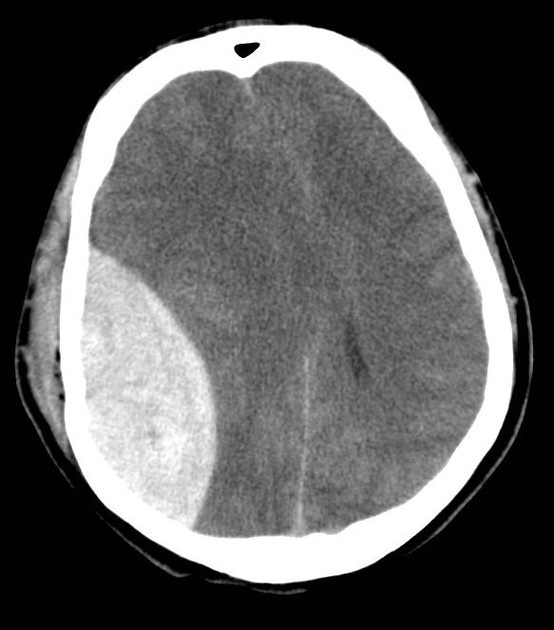
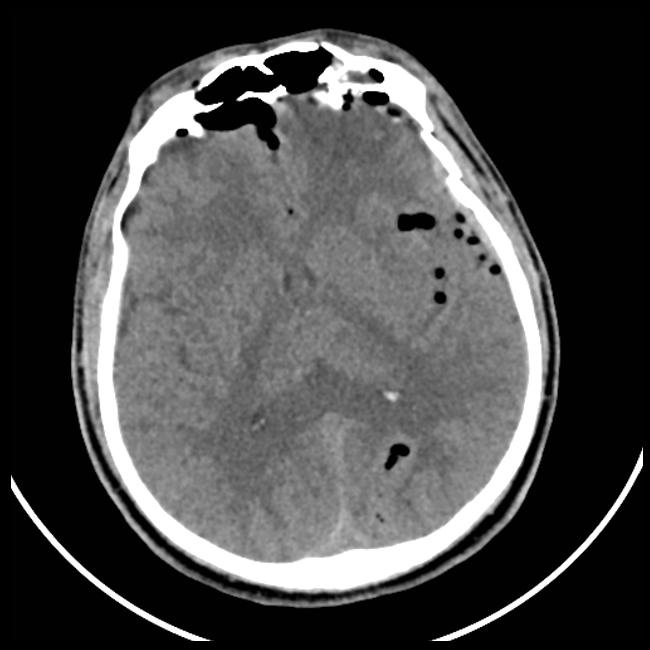
requirment added

diff --git a/app.py b/app.py
@@ -7,75 +7,102 @@ from torchvision import models, transforms
 from ultralytics import YOLO, SAM
 from PIL import Image
 
-st.set_page_config(page_title="NeuroScan AI", page_icon="🧠", layout="wide")
+st.set_page_config(page_title="CerebraAI", page_icon="🧠", layout="wide")
 
 # ============================================================
-# STYLING — compact, dark, tight spacing
+# STYLING — warm orange/amber gradient theme, dark base
 # ============================================================
 st.markdown("""
 <style>
-    .stApp { background-color: #0e1117; }
+    .stApp { background-color: #120b08; }
     .block-container { padding-top: 1.5rem; padding-bottom: 1.5rem; max-width: 1100px; }
+
     .main-header {
-        background: linear-gradient(135deg, #1e2749 0%, #0e1117 100%);
-        padding: 1.1rem 1.5rem; border-radius: 12px; margin-bottom: 1rem;
-        border: 1px solid #2a3352; display: flex; align-items: center; justify-content: space-between;
+        background: linear-gradient(135deg, #ff9d5c 0%, #d9531e 35%, #3a1c10 80%, #120b08 100%);
+        padding: 1.6rem 1.8rem; border-radius: 18px; margin-bottom: 1.2rem;
+        border: 1px solid #4a2a18; position: relative; overflow: hidden;
+    }
+    .main-header::before {
+        content: ""; position: absolute; top: -40%; right: -10%;
+        width: 60%; height: 180%;
+        background: radial-gradient(circle, rgba(255,180,120,0.35) 0%, rgba(255,180,120,0) 70%);
+        pointer-events: none;
     }
     .main-header h1 {
-        font-size: 1.5rem; font-weight: 700; margin: 0;
-        background: linear-gradient(90deg, #4f8cff, #6ee7d8);
-        -webkit-background-clip: text; -webkit-text-fill-color: transparent;
-        display: inline;
+        font-size: 2rem; font-weight: 800; margin: 0; color: #fff5ec;
+        letter-spacing: -0.02em; position: relative;
     }
-    .main-header p { color: #8b93b0; margin: 2px 0 0 0; font-size: 0.8rem; }
-    section[data-testid="stSidebar"] { background-color: #12172a; }
+    .main-header p { color: #ffe0c2; margin: 4px 0 12px 0; font-size: 0.88rem; position: relative; }
+    .tag-pill {
+        display: inline-block; padding: 5px 14px; border-radius: 20px;
+        font-size: 0.72rem; font-weight: 700; margin-right: 8px; position: relative;
+    }
+    .tag-dark { background: #1c1310; color: #ffcda0; border: 1px solid #4a2a18; }
+    .tag-orange { background: #e8631f; color: #fff5ec; }
+
+    section[data-testid="stSidebar"] { background-color: #17100c; border-right: 1px solid #3a2418; }
+    section[data-testid="stSidebar"] * { color: #f0dcc9 !important; }
+
     .info-card {
-        background: #161b2e; border: 1px solid #2a3352; border-radius: 10px;
+        background: #1c130e; border: 1px solid #3a2418; border-radius: 12px;
         padding: 0.7rem 0.9rem; margin-bottom: 0.6rem;
     }
     .detection-card {
-        background: #161b2e; border-radius: 10px; padding: 0.8rem 1rem;
+        background: linear-gradient(135deg, #1c130e 0%, #1c130e 60%, #2a1810 100%);
+        border-radius: 12px; padding: 0.85rem 1.05rem;
         margin-bottom: 0.6rem; border-left: 4px solid var(--accent-color);
     }
-    .detection-title { font-size: 0.98rem; font-weight: 700; color: #f0f2f8; margin-bottom: 0.1rem; }
-    .detection-meta { color: #8b93b0; font-size: 0.78rem; margin: 0.3rem 0 0.4rem 0; line-height: 1.3; }
-    .conf-row { display: flex; align-items: center; gap: 8px; font-size: 0.72rem; color: #8b93b0; margin-top: 3px; }
-    .conf-bar-bg { background: #2a3352; border-radius: 5px; height: 6px; flex: 1; }
-    .conf-bar-fill { height: 6px; border-radius: 5px; }
-    .stat-row { display: flex; gap: 0.6rem; margin-bottom: 0.8rem; }
+    .detection-title { font-size: 1rem; font-weight: 700; color: #fff5ec; margin-bottom: 0.15rem; }
+    .detection-meta { color: #c9a98c; font-size: 0.78rem; margin: 0.35rem 0 0.45rem 0; line-height: 1.35; }
+    .conf-row { display: flex; align-items: center; gap: 8px; font-size: 0.72rem; color: #c9a98c; margin-top: 4px; }
+    .conf-bar-bg { background: #3a2418; border-radius: 5px; height: 6px; flex: 1; }
+    .conf-bar-fill { height: 6px; border-radius: 5px; background: linear-gradient(90deg, #ff9d5c, #e8631f); }
+
+    .stat-row { display: flex; gap: 0.7rem; margin-bottom: 0.9rem; }
     .stat-box {
-        background: #161b2e; border: 1px solid #2a3352; border-radius: 10px;
-        padding: 0.6rem; text-align: center; flex: 1;
+        background: #1c130e; border: 1px solid #3a2418; border-radius: 12px;
+        padding: 0.7rem; text-align: center; flex: 1;
     }
-    .stat-number { font-size: 1.4rem; font-weight: 700; color: #f0f2f8; line-height: 1.1; }
-    .stat-label { color: #8b93b0; font-size: 0.68rem; text-transform: uppercase; letter-spacing: 0.04em; }
+    .stat-number {
+        font-size: 1.5rem; font-weight: 800; line-height: 1.1;
+        background: linear-gradient(90deg, #ff9d5c, #e8631f);
+        -webkit-background-clip: text; -webkit-text-fill-color: transparent;
+    }
+    .stat-label { color: #a3876f; font-size: 0.68rem; text-transform: uppercase; letter-spacing: 0.05em; margin-top: 2px; }
+
     .badge {
-        display: inline-block; padding: 2px 8px; border-radius: 20px;
-        font-size: 0.68rem; font-weight: 600;
+        display: inline-block; padding: 2px 9px; border-radius: 20px;
+        font-size: 0.68rem; font-weight: 700;
     }
     .method-note {
-        background: #12172a; border: 1px solid #2a3352; border-radius: 8px;
-        padding: 0.5rem 0.7rem; font-size: 0.72rem; color: #8b93b0; margin-top: 0.5rem; line-height: 1.4;
+        background: #17100c; border: 1px solid #3a2418; border-radius: 8px;
+        padding: 0.55rem 0.75rem; font-size: 0.72rem; color: #a3876f; margin-top: 0.5rem; line-height: 1.4;
     }
-    h3 { font-size: 1rem !important; margin-bottom: 0.5rem !important; color: #f0f2f8; }
+    h3 { font-size: 1.05rem !important; margin-bottom: 0.6rem !important; color: #fff5ec; font-weight: 700 !important; }
     .ref-mini {
-        background: #161b2e; border: 1px solid #2a3352; border-radius: 8px;
-        padding: 0.5rem 0.6rem; font-size: 0.72rem; margin-bottom: 0.4rem;
+        background: #1c130e; border: 1px solid #3a2418; border-radius: 10px;
+        padding: 0.6rem 0.7rem; font-size: 0.74rem; margin-bottom: 0.4rem;
     }
+    .ref-mini b { color: #fff5ec; }
+
+    /* Streamlit widget accents */
+    .stSlider [data-baseweb="slider"] div[role="slider"] { background-color: #e8631f !important; }
+    .stCheckbox [data-testid="stMarkdownContainer"] { color: #f0dcc9 !important; }
+    div[data-testid="stFileUploader"] section { background-color: #1c130e; border: 1px dashed #4a2a18; }
 </style>
 """, unsafe_allow_html=True)
 
 # ============================================================
-# SUBTYPE METADATA
+# SUBTYPE METADATA — warm palette per subtype
 # ============================================================
 SUBTYPE_INFO = {
     'Epidural': {'color': '#ff5c5c', 'icon': '🔴',
         'blurb': 'Bleeding between skull and dura, often arterial. Biconvex (lens-shaped) on CT.', 'reliability': 'high'},
-    'Intraparenchymal': {'color': '#4f8cff', 'icon': '🔵',
+    'Intraparenchymal': {'color': '#ff9d5c', 'icon': '🟠',
         'blurb': 'Bleeding within brain tissue, often hypertension/trauma-linked.', 'reliability': 'moderate'},
     'Intraventricular': {'color': '#ffd23f', 'icon': '🟡',
         'blurb': "Bleeding into the ventricular system; hydrocephalus risk.", 'reliability': 'low'},
-    'Subdural': {'color': '#c76eff', 'icon': '🟣',
+    'Subdural': {'color': '#e8631f', 'icon': '🟤',
         'blurb': "Bleeding between dura and arachnoid, typically venous, crescent-shaped.", 'reliability': 'high'},
 }
 RELIABILITY_LABEL = {
@@ -110,7 +137,10 @@ classifier_tf = transforms.Compose([
 # ============================================================
 st.markdown("""
 <div class="main-header">
-    <div><h1>CerebraAI</h1><p>ICH Detection · Classification · Segmentation — Prototype</p></div>
+    <h1>🧠 CerebraAI</h1>
+    <p>Intracranial Hemorrhage Detection · Classification · Segmentation — Research Prototype</p>
+    <span class="tag-pill tag-dark">YOLOv11 · ResNet18 · SAM</span>
+    <span class="tag-pill tag-orange">Computer Vision · 2026</span>
 </div>
 """, unsafe_allow_html=True)
 
@@ -122,6 +152,8 @@ with st.sidebar:
     uploaded_file = st.file_uploader("Upload CT slice", type=["jpg", "jpeg", "png"])
     conf_threshold = st.slider("Detection confidence", 0.05, 0.9, 0.25, 0.05)
     mask_opacity = st.slider("Mask opacity", 0.2, 0.9, 0.55, 0.05)
+    show_box = st.checkbox("Show raw detection box", value=False,
+                            help="The box is a coarse localization step; the segmented mask is the precise, validated output.")
     st.markdown("---")
     st.markdown(
         '<div class="method-note">⚠ Research/educational prototype only. NOT for clinical use.</div>',
@@ -184,7 +216,7 @@ if uploaded_file:
                         cls_conf = probs[0, idx].item()
                     subtype = CLASSIFIER_CLASSES[idx]
 
-                info = SUBTYPE_INFO.get(subtype, {'color': '#4f8cff', 'icon': '⚪', 'blurb': '', 'reliability': 'moderate'})
+                info = SUBTYPE_INFO.get(subtype, {'color': '#e8631f', 'icon': '⚪', 'blurb': '', 'reliability': 'moderate'})
                 color_rgb = tuple(int(info['color'].lstrip('#')[i:i + 2], 16) for i in (0, 2, 4))
 
                 # --- solid fill ---
@@ -192,11 +224,11 @@ if uploaded_file:
                 color_layer[mask_resized.astype(bool)] = color_rgb
                 overlay = cv2.addWeighted(overlay, 1.0, color_layer, mask_opacity, 0)
 
-                # --- bright contour outline so the region reads clearly even at low opacity ---
+                # --- contour outline so the region reads clearly even at low opacity ---
                 contours, _ = cv2.findContours(mask_resized, cv2.RETR_EXTERNAL, cv2.CHAIN_APPROX_SIMPLE)
                 cv2.drawContours(overlay, contours, -1, color_rgb, 2)
 
-                # --- label anchored to the mask's own extent, not the raw YOLO box ---
+                # --- label anchored to the mask's own extent ---
                 if contours:
                     largest = max(contours, key=cv2.contourArea)
                     mx, my, mw, mh = cv2.boundingRect(largest)
@@ -205,6 +237,10 @@ if uploaded_file:
                     ly1 = max(0, my - th - 6)
                     cv2.rectangle(overlay, (mx, ly1), (mx + tw + 6, my), color_rgb, -1)
                     cv2.putText(overlay, label, (mx + 3, my - 4), cv2.FONT_HERSHEY_SIMPLEX, 0.5, (10, 10, 15), 1)
+
+                # --- optional raw box ---
+                if show_box:
+                    cv2.rectangle(overlay, (x1, y1), (x2, y2), color_rgb, 1)
 
                 detections.append({'subtype': subtype, 'det_conf': det_c, 'cls_conf': cls_conf, 'info': info})
 
@@ -234,8 +270,8 @@ if uploaded_file:
                     <div class="detection-title">{info['icon']} {d['subtype']}</div>
                     <span class="badge" style="background:{rel_color}22; color:{rel_color};">{rel_label}</span>
                     <div class="detection-meta">{info['blurb']}</div>
-                    <div class="conf-row">Det <div class="conf-bar-bg"><div class="conf-bar-fill" style="width:{d['det_conf']*100}%; background:{info['color']};"></div></div> {d['det_conf']:.0%}</div>
-                    <div class="conf-row">Cls <div class="conf-bar-bg"><div class="conf-bar-fill" style="width:{d['cls_conf']*100}%; background:{info['color']};"></div></div> {d['cls_conf']:.0%}</div>
+                    <div class="conf-row">Det <div class="conf-bar-bg"><div class="conf-bar-fill" style="width:{d['det_conf']*100}%;"></div></div> {d['det_conf']:.0%}</div>
+                    <div class="conf-row">Cls <div class="conf-bar-bg"><div class="conf-bar-fill" style="width:{d['cls_conf']*100}%;"></div></div> {d['cls_conf']:.0%}</div>
                 </div>
                 """, unsafe_allow_html=True)
 else:
@@ -250,6 +286,6 @@ else:
             <div class="ref-mini" style="border-top: 2px solid {info['color']};">
                 <b>{info['icon']} {name}</b><br>
                 <span class="badge" style="background:{rel_color}22; color:{rel_color};">{rel_label}</span>
-                <div style="color:#8b93b0; margin-top:4px;">{info['blurb']}</div>
+                <div style="color:#a3876f; margin-top:4px;">{info['blurb']}</div>
             </div>
             """, unsafe_allow_html=True)
